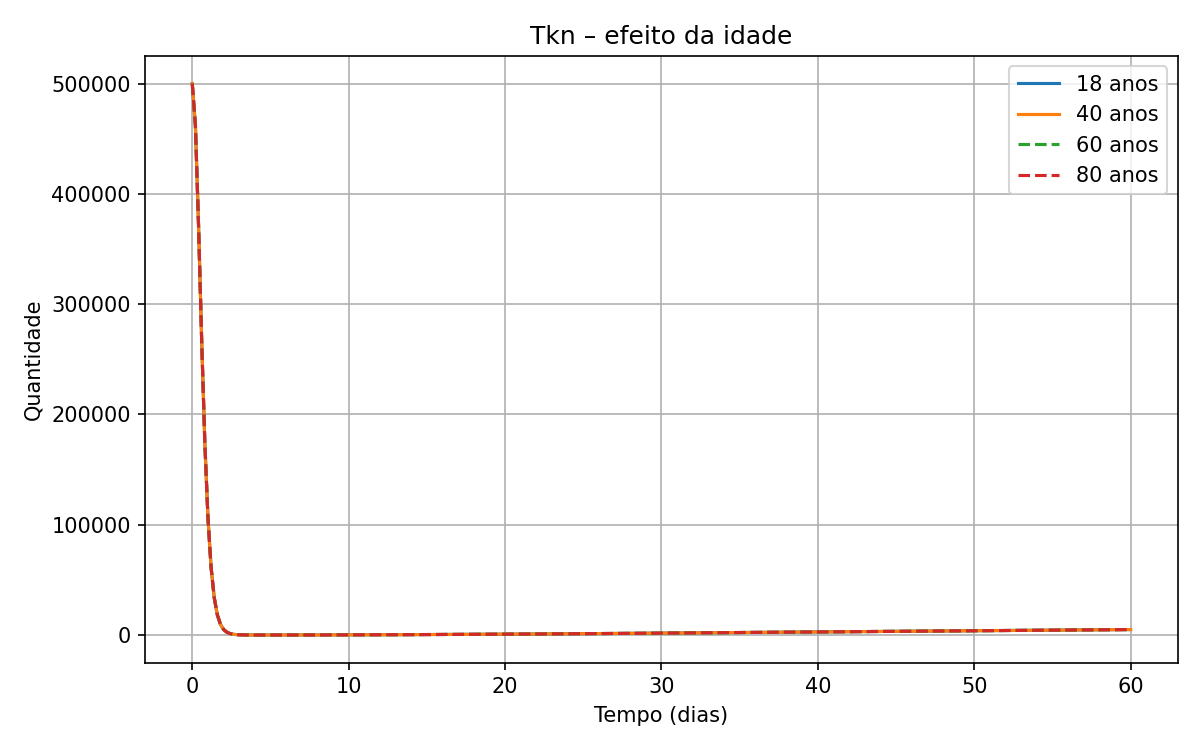
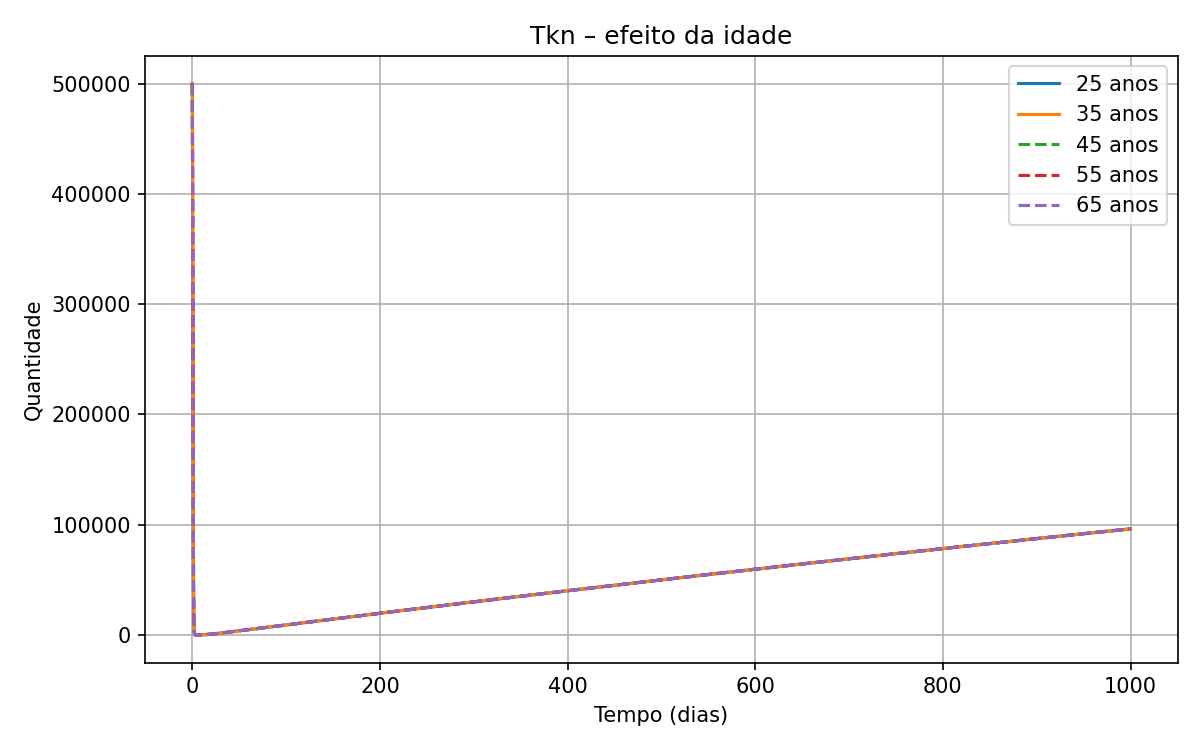
adding values based off an article

diff --git a/modelo_por_idade.py b/modelo_por_idade.py
@@ -1,12 +1,32 @@
 
 import numpy as np
 from scipy.integrate import odeint
+from scipy.optimize import curve_fit
 import matplotlib.pyplot as plt
 import os
 
 # Criar pasta para salvar imagens
 pasta_destino = os.path.join(os.path.dirname(__file__), "Images_aging_by_age")
 os.makedirs(pasta_destino, exist_ok=True)
+
+idades = np.array([25, 35, 45, 55, 65])
+il6 = np.array([0.8, 1.0, 1.3, 1.7, 2.4])
+t = np.linspace(0, 1000, 30000)
+solucoes = {}
+
+def modelo_il6(idade, a, b):
+    return a * np.exp(b * idade)
+
+il6_params, _ = curve_fit(modelo_il6, idades, il6)
+
+idades_timo = np.array([25, 45, 65])
+t_cd4_naive = np.array([750, 350, 120])  # células/μL
+
+# Ajuste exponencial: Tprod_0 proporcional à célula naïve CD4+
+def modelo_tprod(idade, a, b):
+    return a * np.exp(-b * idade)
+
+tprod_params, _ = curve_fit(modelo_tprod, idades_timo, t_cd4_naive)
 
 # Parâmetros do modelo
 params = {
@@ -57,9 +77,9 @@ labels = [
 ]
 
 def gerar_condicoes_iniciais(idade):
-    Tprod_0 = 1e5 * np.exp(-0.05 * max(idade - 20, 0))
-    I_0 = 0.01 * max(idade - 20, 0)
-    S_0 = 0.001 * (idade - 20)**2 if idade > 20 else 0
+    Tprod_0 = modelo_tprod(idade, *tprod_params)
+    I_0 = modelo_il6(idade, *il6_params)
+    S_0 = 0.4*I_0 if idade > 20 else 0
 
     V0 = 724
     return [
@@ -94,9 +114,7 @@ def immune_response_aging(y, t, p):
     return [dV, dAp, dApm, dThn, dThe, dTkn, dTke, dB, dPs, dPl, dBm, dA, dTprod, dI, dS]
 
 # Idades a simular
-idades = [18, 40, 60, 80]
-t = np.linspace(0, 60, 300)
-solucoes = {}
+
 
 for idade in idades:
     y0 = gerar_condicoes_iniciais(idade)
@@ -117,3 +135,5 @@ for i, label in enumerate(labels):
     plt.tight_layout()
     plt.savefig(os.path.join(pasta_destino, f"{label}_por_idade.png"), dpi=150)
     plt.show()
+    
+    # Plot do ajuste IL-6
